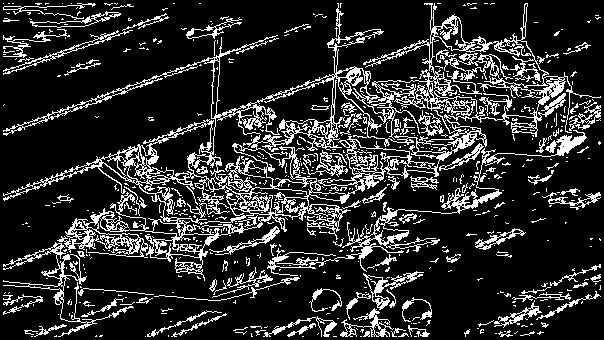
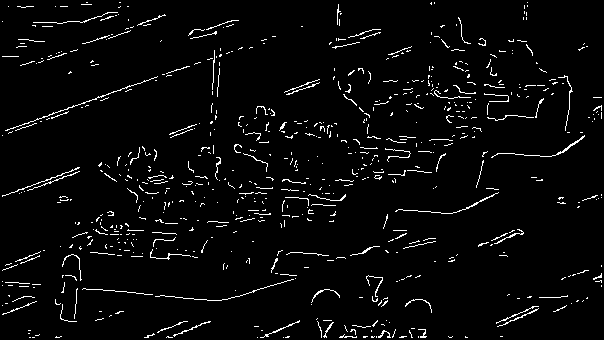
v.0.4 avg value max gradient in sector and drop gradient where current < avg * koefficient

diff --git a/CannyProject/CannyProject/MainForm.Designer.cs b/CannyProject/CannyProject/MainForm.Designer.cs
@@ -57,6 +57,12 @@
             this.uiShift2TextBox = new System.Windows.Forms.TextBox();
             this.uiGradientPictureBox = new System.Windows.Forms.PictureBox();
             this.uiSpecialPictureBox = new System.Windows.Forms.PictureBox();
+            this.uiKoefficient1Label = new System.Windows.Forms.Label();
+            this.uiKoefficient1TextBox = new System.Windows.Forms.TextBox();
+            this.uiKoefficient2Label = new System.Windows.Forms.Label();
+            this.uiKoefficient2TextBox = new System.Windows.Forms.TextBox();
+            this.uiKoefficient3Label = new System.Windows.Forms.Label();
+            this.uiKoefficient3TextBox = new System.Windows.Forms.TextBox();
             this.toolStrip1.SuspendLayout();
             ((System.ComponentModel.ISupportInitialize)(this.uiInputImagePictureBox)).BeginInit();
             ((System.ComponentModel.ISupportInitialize)(this.uiGaussianFilteredImagePictureBox)).BeginInit();
@@ -313,11 +319,68 @@
             this.uiSpecialPictureBox.TabIndex = 82;
             this.uiSpecialPictureBox.TabStop = false;
             // 
+            // uiKoefficient1Label
+            // 
+            this.uiKoefficient1Label.AutoSize = true;
+            this.uiKoefficient1Label.Location = new System.Drawing.Point(399, 395);
+            this.uiKoefficient1Label.Name = "uiKoefficient1Label";
+            this.uiKoefficient1Label.Size = new System.Drawing.Size(63, 13);
+            this.uiKoefficient1Label.TabIndex = 84;
+            this.uiKoefficient1Label.Text = "Koefficient1";
+            // 
+            // uiKoefficient1TextBox
+            // 
+            this.uiKoefficient1TextBox.Location = new System.Drawing.Point(402, 411);
+            this.uiKoefficient1TextBox.Name = "uiKoefficient1TextBox";
+            this.uiKoefficient1TextBox.Size = new System.Drawing.Size(41, 20);
+            this.uiKoefficient1TextBox.TabIndex = 83;
+            this.uiKoefficient1TextBox.Text = "2";
+            // 
+            // uiKoefficient2Label
+            // 
+            this.uiKoefficient2Label.AutoSize = true;
+            this.uiKoefficient2Label.Location = new System.Drawing.Point(399, 428);
+            this.uiKoefficient2Label.Name = "uiKoefficient2Label";
+            this.uiKoefficient2Label.Size = new System.Drawing.Size(63, 13);
+            this.uiKoefficient2Label.TabIndex = 86;
+            this.uiKoefficient2Label.Text = "Koefficient2";
+            // 
+            // uiKoefficient2TextBox
+            // 
+            this.uiKoefficient2TextBox.Location = new System.Drawing.Point(402, 444);
+            this.uiKoefficient2TextBox.Name = "uiKoefficient2TextBox";
+            this.uiKoefficient2TextBox.Size = new System.Drawing.Size(41, 20);
+            this.uiKoefficient2TextBox.TabIndex = 85;
+            this.uiKoefficient2TextBox.Text = "5";
+            // 
+            // uiKoefficient3Label
+            // 
+            this.uiKoefficient3Label.AutoSize = true;
+            this.uiKoefficient3Label.Location = new System.Drawing.Point(399, 464);
+            this.uiKoefficient3Label.Name = "uiKoefficient3Label";
+            this.uiKoefficient3Label.Size = new System.Drawing.Size(63, 13);
+            this.uiKoefficient3Label.TabIndex = 88;
+            this.uiKoefficient3Label.Text = "Koefficient3";
+            // 
+            // uiKoefficient3TextBox
+            // 
+            this.uiKoefficient3TextBox.Location = new System.Drawing.Point(402, 480);
+            this.uiKoefficient3TextBox.Name = "uiKoefficient3TextBox";
+            this.uiKoefficient3TextBox.Size = new System.Drawing.Size(41, 20);
+            this.uiKoefficient3TextBox.TabIndex = 87;
+            this.uiKoefficient3TextBox.Text = "4";
+            // 
             // MainForm
             // 
             this.AutoScaleDimensions = new System.Drawing.SizeF(6F, 13F);
             this.AutoScaleMode = System.Windows.Forms.AutoScaleMode.Font;
             this.ClientSize = new System.Drawing.Size(1099, 698);
+            this.Controls.Add(this.uiKoefficient3Label);
+            this.Controls.Add(this.uiKoefficient3TextBox);
+            this.Controls.Add(this.uiKoefficient2Label);
+            this.Controls.Add(this.uiKoefficient2TextBox);
+            this.Controls.Add(this.uiKoefficient1Label);
+            this.Controls.Add(this.uiKoefficient1TextBox);
             this.Controls.Add(this.uiSpecialPictureBox);
             this.Controls.Add(this.uiGradientPictureBox);
             this.Controls.Add(this.uiShift2SizeLabel);
@@ -391,6 +454,12 @@
         private System.Windows.Forms.TextBox uiShift2TextBox;
         private System.Windows.Forms.PictureBox uiGradientPictureBox;
         private System.Windows.Forms.PictureBox uiSpecialPictureBox;
+        private System.Windows.Forms.Label uiKoefficient1Label;
+        private System.Windows.Forms.TextBox uiKoefficient1TextBox;
+        private System.Windows.Forms.Label uiKoefficient2Label;
+        private System.Windows.Forms.TextBox uiKoefficient2TextBox;
+        private System.Windows.Forms.Label uiKoefficient3Label;
+        private System.Windows.Forms.TextBox uiKoefficient3TextBox;
     }
 }
 

diff --git a/CannyProject/CannyProject/Canny.cs b/CannyProject/CannyProject/Canny.cs
@@ -29,9 +29,16 @@ namespace CannyProject
         public float[,] SpecialMatrix2;
         private int _size;
         private int _shift;
+        private float _koefficient1;
+        private float _koefficient2;
+        private float _koefficient3;
 
-        public Canny(Bitmap inputImage, float maxHysteresisThresh, float minHysteresisThresh, int gaussianMaskSize, float sigmaforGaussianKernel, int shift, int shiftSize)
+        public Canny(Bitmap inputImage, float maxHysteresisThresh, float minHysteresisThresh, int gaussianMaskSize, float sigmaforGaussianKernel,
+            int shift, int shiftSize, float koefficient1, float koefficient2, float koefficient3)
         {
+            _koefficient1 = koefficient1;
+            _koefficient2 = koefficient2;
+            _koefficient3 = koefficient3;
             _shift = shift;
             _size = shiftSize;
             _kernelSize = gaussianMaskSize;
@@ -362,7 +369,7 @@ namespace CannyProject
             {
                 for (var j = 0; j <= (ObjInputImage.Height - 1); j++)
                 {
-                    if (gradient[i, j] < (SpecialMatrix[i, j] * 0.5))
+                    if (gradient[i, j] < (SpecialMatrix[i, j] * _koefficient1))
                     {
                         gradient[i, j] = 0;
                     }

diff --git a/CannyProject/CannyProject/MainForm.cs b/CannyProject/CannyProject/MainForm.cs
@@ -62,8 +62,12 @@ namespace CannyProject
                 var sigma = (float) Convert.ToDouble(uiSigmaTextBox.Text);
                 var shift = Convert.ToInt32(uiShiftTextBox.Text);
                 var size = (int) Convert.ToDouble(uiSizeTextBox.Text);
+                var koefficient1 = (float)Convert.ToDouble(uiKoefficient1TextBox.Text);
+                var koefficient2 = (float)Convert.ToDouble(uiKoefficient2TextBox.Text);
+                var koefficient3 = (float)Convert.ToDouble(uiKoefficient3TextBox.Text);
                 uiInputImagePictureBox.Image = Image.FromFile(fileName);
-                var cannyData = new Canny((Bitmap) uiInputImagePictureBox.Image, th, tl, maskSize, sigma, shift, size);
+                var cannyData = new Canny((Bitmap) uiInputImagePictureBox.Image, th, tl, maskSize, sigma, shift, size,
+                    koefficient1,koefficient2,koefficient3);
                 uiGaussianFilteredImagePictureBox.Image = cannyData.GetDisplayedImage(cannyData.GaussianFilterImage);
                 uiFinalCannyPictureBox.Image = cannyData.GetDisplayedImage(cannyData.EdgeMap);
                 uiGnhPictureBox.Image = cannyData.GetDisplayedImage(cannyData.GNH);
